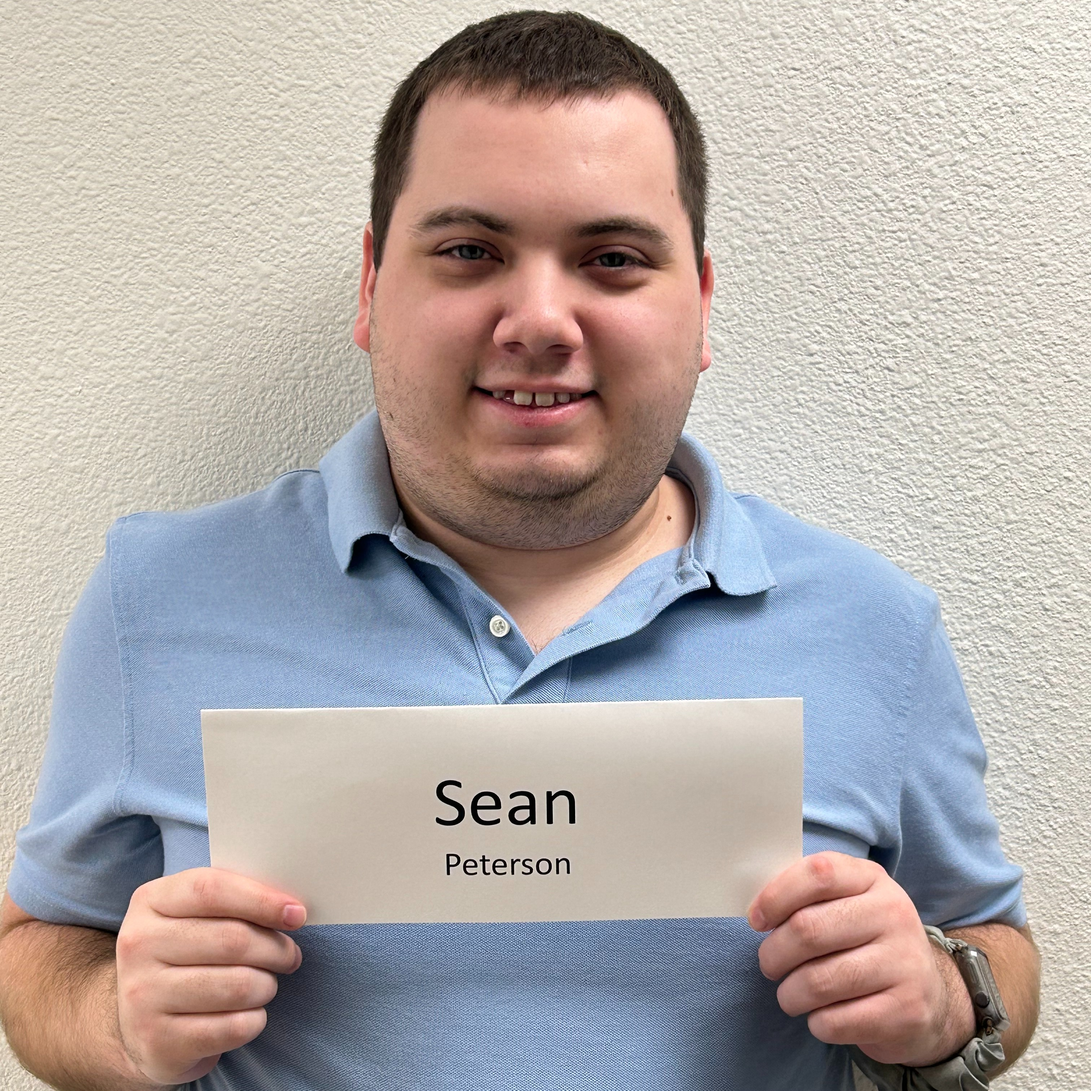
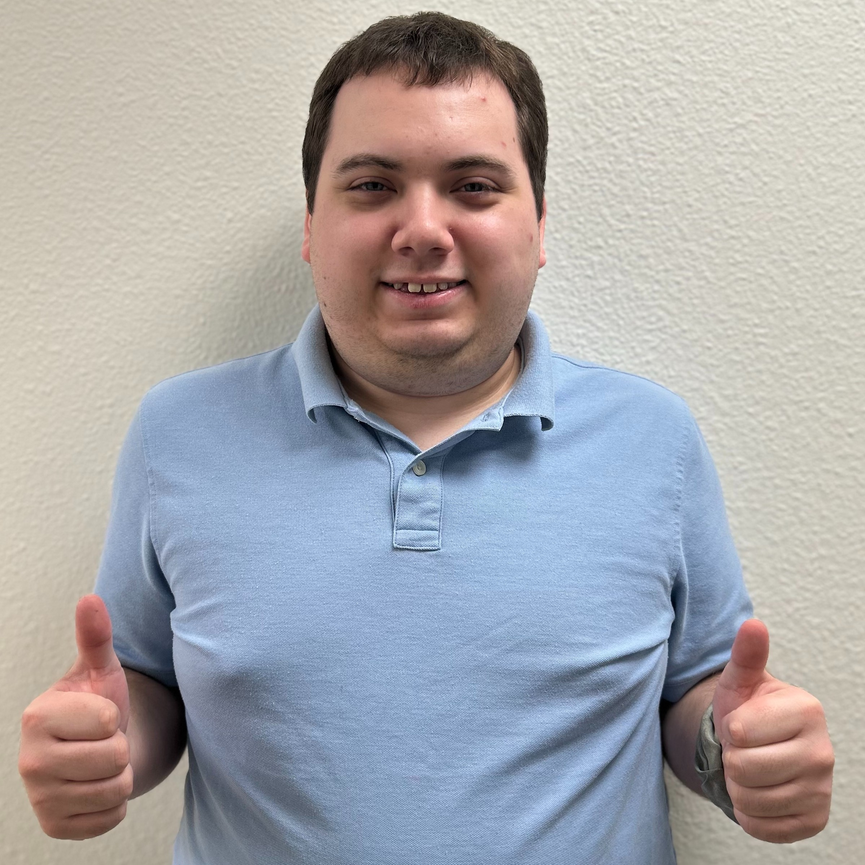
Changes to name, bio, and email

diff --git a/index.html b/index.html
@@ -93,7 +93,7 @@
     <div class="row">
       <div class="column">
         <div class="card">
-        <img src="images/SamplePic.jpg" alt="Cohort5" >
+        <img src="images/cohort5.png" alt="Cohort5" >
         <div class="container">
           <h2>Sean Peterson</h2>
           <p class="title">COHORT 5#</p>
